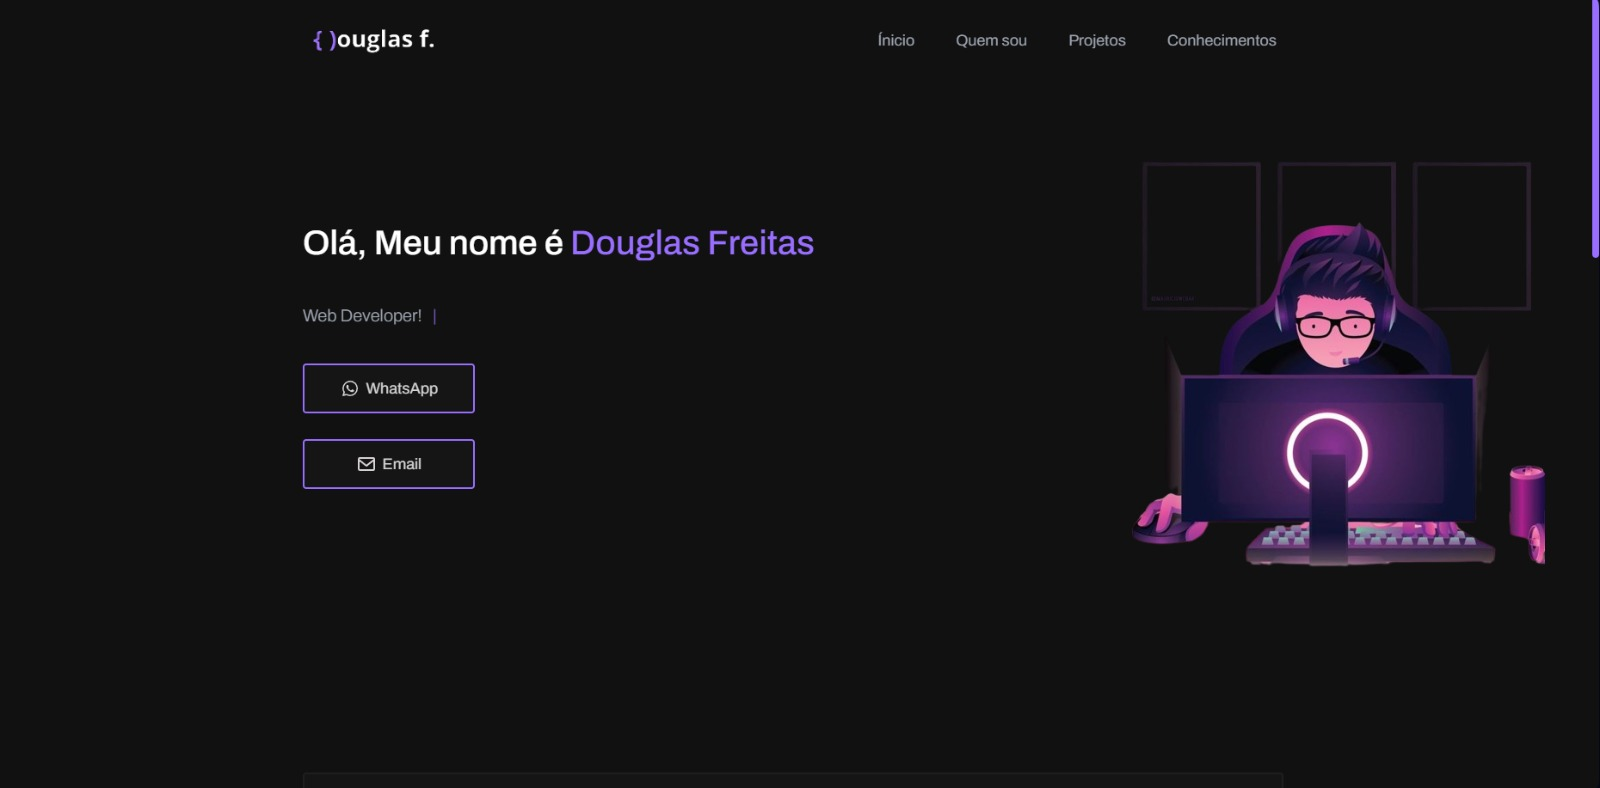
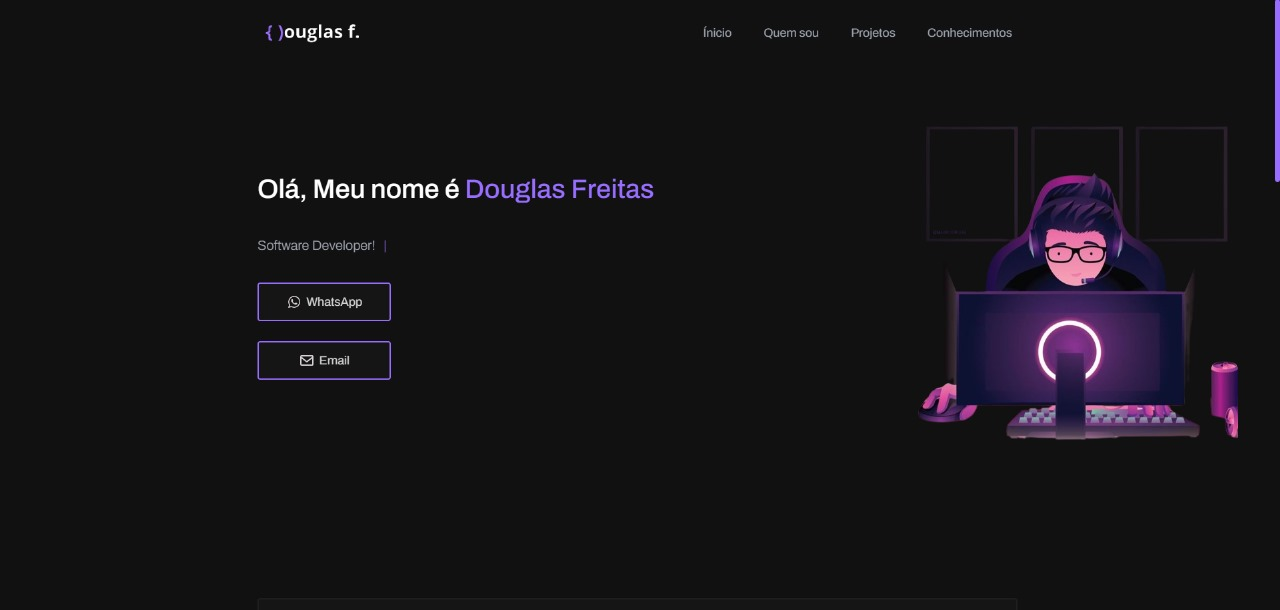
Lets's go

diff --git a/index.html b/index.html
@@ -20,7 +20,7 @@
   <link rel="shortcut icon" href="assets/image/favicon.ico" type="image/x-icon">
   <link rel="canonical" href="https://douglasffjw.github.io/Meu-Portifolio/" />
   <script src="assets/js/svg-inject.min.js"></script>
-  <title>Douglas Freitas - Front-End Developer</title>
+  <title>Douglas Freitas - Software Developer</title>
 </head>
 
 <body>
@@ -61,7 +61,7 @@
               <span>Douglas Freitas</span>
             </h1>
             <p class="typewriter">
-              Web Developer!
+              Software Developer!
             </p>
 
             <a href="https://wa.me/5585989712043?text=Ol%C3%A1%20Douglas,%20vim%20pelo%20seu%20portif%C3%B3lio%20!"
